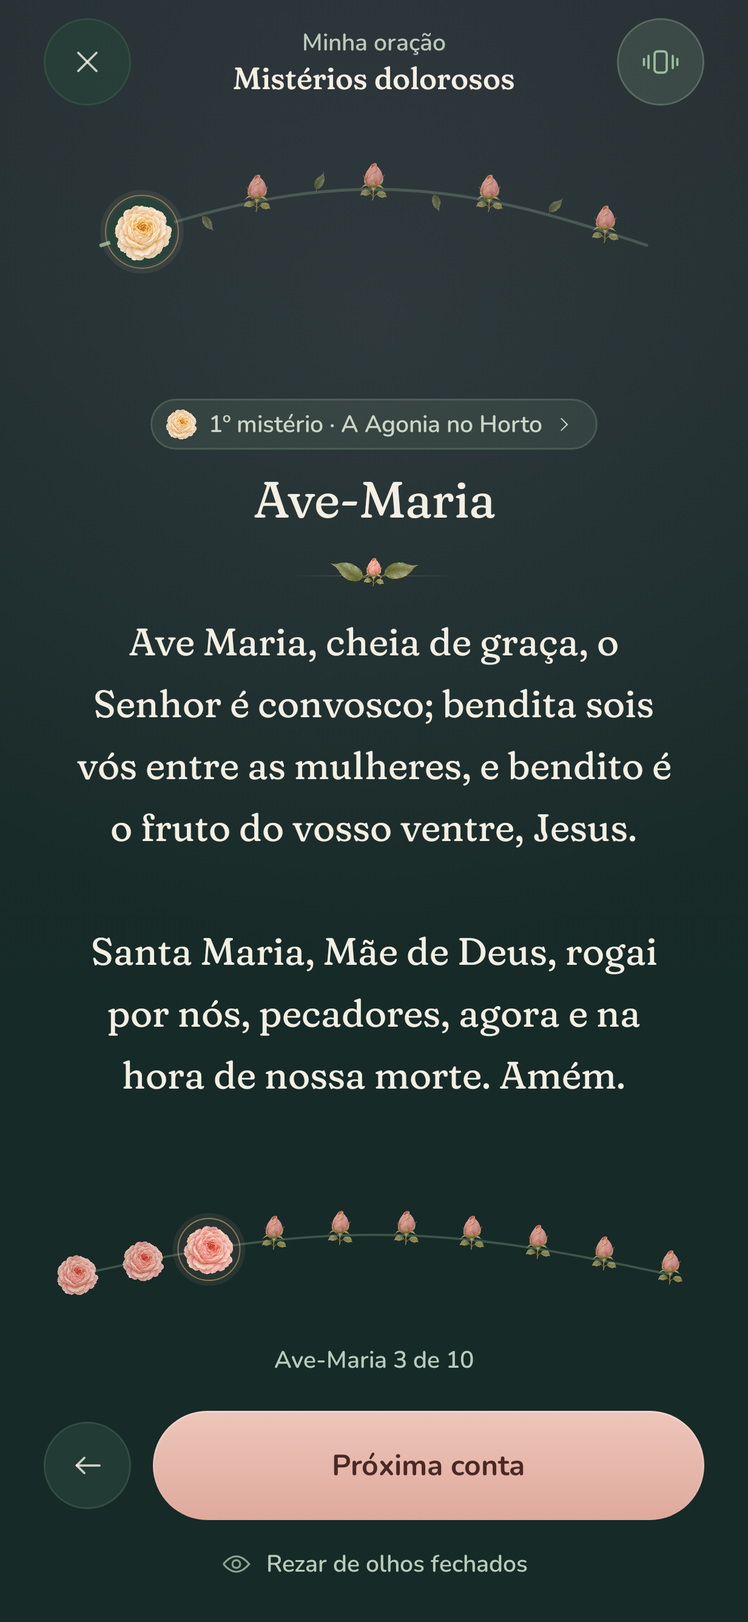
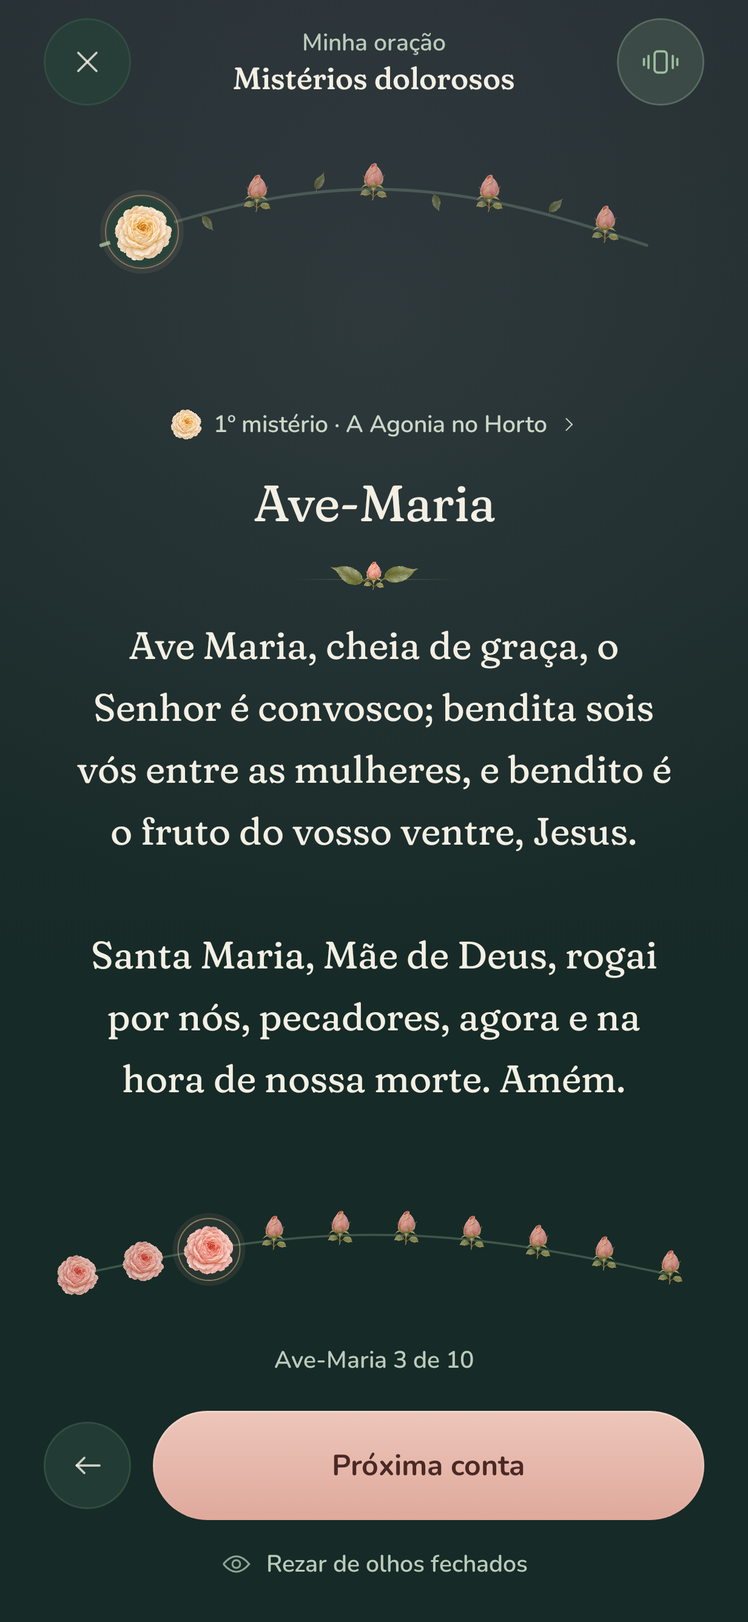
Use plain labels and open text actions instead of decorative pills

diff --git a/app/src/main/java/com/sertumrosarum/feature/prayer/MysteryDimensions.kt b/app/src/main/java/com/sertumrosarum/feature/prayer/MysteryDimensions.kt
@@ -46,7 +46,6 @@ import com.sertumrosarum.ui.canvas.paintBotanical
 import com.sertumrosarum.ui.canvas.DevotionalArtwork
 import com.sertumrosarum.ui.canvas.DevotionalIllustration
 import com.sertumrosarum.ui.components.SacredCard
-import com.sertumrosarum.ui.components.SacredChip
 import com.sertumrosarum.ui.components.SacredIcon
 import com.sertumrosarum.ui.components.SacredText
 import com.sertumrosarum.ui.components.SacredToggleRow
@@ -82,7 +81,7 @@ internal fun MysteryDimensions(
                     when (index) {
                         0 -> {
                             Row(Modifier.fillMaxWidth().padding(bottom = 8.dp), horizontalArrangement = Arrangement.SpaceBetween, verticalAlignment = Alignment.CenterVertically) {
-                                SacredChip(mystery.scripture)
+                                SacredText(mystery.scripture, style = type.micro, color = colors.marian)
                                 DevotionalArtwork(DevotionalIllustration.PRAYER_BOOK, Modifier.size(42.dp))
                             }
                             SacredText("“${contemplation.scriptureQuote}”", Modifier.padding(bottom = 10.dp).testTag("scripture-quote"), type.whisper, colors.marian)
@@ -134,29 +133,24 @@ private fun DimensionLayer(index: Int, name: String, shown: Boolean, foldable: B
 
 /** During a decade, the mystery stays one touch away: this opens its contemplation sheet. */
 @Composable
-internal fun MysteryChip(decade: Int, mystery: Mystery, onOpen: () -> Unit, modifier: Modifier = Modifier) {
+internal fun MysteryLink(decade: Int, mystery: Mystery, onOpen: () -> Unit, modifier: Modifier = Modifier) {
     val colors = SertumTheme.colors
     val ink = lerp(colors.secondary, colors.ink, .3f)
     val art = LocalBotanicalArtwork.current
-    Box(
-        modifier.clip(CircleShape).clickable(role = Role.Button, onClickLabel = "Contemplar este mistério", onClick = onOpen)
-            .testTag("mystery-chip").heightIn(min = 44.dp).padding(horizontal = 6.dp),
-        contentAlignment = Alignment.Center,
+    Row(
+        modifier.clip(RoundedCornerShape(12.dp)).clickable(role = Role.Button, onClickLabel = "Contemplar este mistério", onClick = onOpen)
+            .testTag("mystery-chip").heightIn(min = 48.dp).padding(horizontal = 8.dp, vertical = 6.dp),
+        horizontalArrangement = Arrangement.spacedBy(6.dp), verticalAlignment = Alignment.CenterVertically,
     ) {
-        Row(
-            Modifier.clip(CircleShape).background(colors.marian.copy(alpha = .1f)).border(1.dp, colors.marian.copy(alpha = .2f), CircleShape).padding(start = 8.dp, end = 13.dp, top = 5.dp, bottom = 5.dp),
-            horizontalArrangement = Arrangement.spacedBy(6.dp), verticalAlignment = Alignment.CenterVertically,
-        ) {
-            Canvas(Modifier.size(18.dp)) { paintBotanical(art.ivoryRose, center, size.minDimension) }
-            SacredText("${decade + 1}º mistério · ${mystery.title}", Modifier.weight(1f, fill = false), SertumTheme.typography.micro, ink, maxLines = 1)
-            SacredIcon(SacredIcon.CHEVRON, Modifier.size(11.dp), ink)
-        }
+        Canvas(Modifier.size(18.dp)) { paintBotanical(art.ivoryRose, center, size.minDimension) }
+        SacredText("${decade + 1}º mistério · ${mystery.title}", Modifier.weight(1f, fill = false), SertumTheme.typography.micro, ink, maxLines = 1)
+        SacredIcon(SacredIcon.CHEVRON, Modifier.size(11.dp), ink)
     }
 }
 
 /**
  * One Ave-Maria of the bead-by-bead rosary: the mystery it belongs to, and the line to hold while praying.
- * It takes the place of the heading so the whole prayer still fits beneath it, and opens the same sheet as [MysteryChip].
+ * It takes the place of the heading so the whole prayer still fits beneath it, and opens the same sheet as [MysteryLink].
  */
 @Composable
 internal fun MeditatedBead(decade: Int, mystery: Mystery, line: String, onOpen: () -> Unit, modifier: Modifier = Modifier) {

diff --git a/app/src/main/java/com/sertumrosarum/feature/prayer/PrayerTextReader.kt b/app/src/main/java/com/sertumrosarum/feature/prayer/PrayerTextReader.kt
@@ -3,8 +3,6 @@ package com.sertumrosarum.feature.prayer
 import androidx.compose.animation.core.tween
 import androidx.compose.foundation.Canvas
 import androidx.compose.foundation.ScrollState
-import androidx.compose.foundation.background
-import androidx.compose.foundation.border
 import androidx.compose.foundation.clickable
 import androidx.compose.foundation.gestures.animateScrollBy
 import androidx.compose.foundation.layout.Arrangement
@@ -104,7 +102,7 @@ internal fun PrayerTextReader(
                 Box(Modifier.fillMaxWidth().heightIn(min = 48.dp), contentAlignment = Alignment.Center) {
                     Row(
                         Modifier.testTag("prayer-scroll-cue")
-                            .clip(RoundedCornerShape(50))
+                            .clip(RoundedCornerShape(12.dp))
                             .clickable(
                                 role = Role.Button,
                                 onClickLabel = if (hasMoreBelow) "Ler a próxima parte da oração" else "Voltar ao início da oração",
@@ -129,26 +127,17 @@ internal fun PrayerTextReader(
                         horizontalArrangement = Arrangement.spacedBy(7.dp),
                         verticalAlignment = Alignment.CenterVertically,
                     ) {
-                        Row(
-                            Modifier.clip(RoundedCornerShape(50))
-                                .background(colors.marian.copy(alpha = .1f))
-                                .border(1.dp, colors.marian.copy(alpha = .2f), RoundedCornerShape(50))
-                                .padding(horizontal = 14.dp, vertical = 6.dp),
-                            horizontalArrangement = Arrangement.spacedBy(7.dp),
-                            verticalAlignment = Alignment.CenterVertically,
-                        ) {
-                            SacredText(
-                                if (hasMoreBelow) "Continue lendo" else "Voltar ao início",
-                                Modifier.weight(1f, fill = false),
-                                style = type.micro,
-                                color = cueInk,
-                            )
-                            SacredIcon(
-                                SacredIcon.CHEVRON,
-                                Modifier.size(13.dp).rotate(if (hasMoreBelow) 90f else -90f),
-                                cueInk,
-                            )
-                        }
+                        SacredText(
+                            if (hasMoreBelow) "Continue lendo" else "Voltar ao início",
+                            Modifier.weight(1f, fill = false),
+                            style = type.micro,
+                            color = cueInk,
+                        )
+                        SacredIcon(
+                            SacredIcon.CHEVRON,
+                            Modifier.size(13.dp).rotate(if (hasMoreBelow) 90f else -90f),
+                            cueInk,
+                        )
                     }
                 }
             }

diff --git a/app/src/main/java/com/sertumrosarum/feature/guides/GuidesScreen.kt b/app/src/main/java/com/sertumrosarum/feature/guides/GuidesScreen.kt
@@ -39,7 +39,6 @@ import com.sertumrosarum.ui.canvas.DevotionalIllustration
 import com.sertumrosarum.ui.canvas.CrownGlyph
 import com.sertumrosarum.ui.components.PageWelcome
 import com.sertumrosarum.ui.components.SacredCard
-import com.sertumrosarum.ui.components.SacredChip
 import com.sertumrosarum.ui.components.SacredIcon
 import com.sertumrosarum.ui.components.SacredText
 import com.sertumrosarum.ui.components.SanctuaryPage
@@ -108,11 +107,14 @@ private fun GuideRow(guide: PrayerGuide, onOpen: (PrayerGuide) -> Unit) {
         Column(Modifier.weight(1f)) {
             SacredText(guide.title, style = type.label.copy(fontSize = 16.sp, lineHeight = 22.sp, fontWeight = FontWeight.SemiBold))
             SacredText(guide.summary, Modifier.padding(top = 2.dp), type.body.copy(fontSize = 14.sp, lineHeight = 20.sp), colors.secondary)
-            if (guide.shelf == GuideShelf.CROWN || guide.catechetical || guide.litany) Row(Modifier.padding(top = 8.dp), horizontalArrangement = Arrangement.spacedBy(6.dp)) {
-                // Every rosary has the same five decades, so only the other crowns state their shape.
-                if (guide.shelf == GuideShelf.CROWN) SacredChip(guide.shape.badge)
-                if (guide.catechetical) SacredChip("Iniciante")
-                if (guide.litany) SacredChip("Ladainha")
+            // Metadata stays typographic; the whole row already provides the action surface.
+            val details = buildList {
+                if (guide.shelf == GuideShelf.CROWN) add(guide.shape.badge)
+                if (guide.catechetical) add("Iniciante")
+                if (guide.litany) add("Ladainha")
+            }
+            if (details.isNotEmpty()) {
+                SacredText(details.joinToString(" · "), Modifier.padding(top = 7.dp), type.micro.copy(fontWeight = FontWeight.Medium), colors.marian)
             }
         }
         SacredIcon(SacredIcon.CHEVRON, Modifier.size(13.dp), colors.muted)

diff --git a/app/src/main/java/com/sertumrosarum/feature/prayer/CrownDeliveredScreen.kt b/app/src/main/java/com/sertumrosarum/feature/prayer/CrownDeliveredScreen.kt
@@ -1,7 +1,5 @@
 package com.sertumrosarum.feature.prayer
 
-import androidx.compose.foundation.background
-import androidx.compose.foundation.border
 import androidx.compose.foundation.layout.Arrangement
 import androidx.compose.foundation.layout.Column
 import androidx.compose.foundation.layout.Row
@@ -10,12 +8,10 @@ import androidx.compose.foundation.layout.fillMaxWidth
 import androidx.compose.foundation.layout.padding
 import androidx.compose.foundation.layout.size
 import androidx.compose.foundation.rememberScrollState
-import androidx.compose.foundation.shape.CircleShape
 import androidx.compose.foundation.verticalScroll
 import androidx.compose.runtime.Composable
 import androidx.compose.ui.Alignment
 import androidx.compose.ui.Modifier
-import androidx.compose.ui.draw.clip
 import androidx.compose.ui.platform.testTag
 import androidx.compose.ui.text.font.FontWeight
 import androidx.compose.ui.text.style.TextAlign
@@ -47,7 +43,7 @@ fun CrownDeliveredScreen(state: PrayerUiState, onReturn: () -> Unit) {
             SacredFlourish(Modifier.padding(top = 24.dp, bottom = 20.dp))
             // A quiet record of the time given, with no score to keep.
             Row(
-                Modifier.clip(CircleShape).background(colors.surface).border(1.dp, colors.border, CircleShape).padding(horizontal = 18.dp, vertical = 10.dp),
+                Modifier.padding(vertical = 10.dp),
                 verticalAlignment = Alignment.CenterVertically,
             ) {
                 SacredText("${state.groupCount} ${if (state.script.isRosary) "mistérios" else if (state.groupLabel == "setena") "setenas" else "dezenas"}, ", style = type.body.copy(fontSize = 14.sp), color = colors.secondary)

diff --git a/app/src/main/java/com/sertumrosarum/feature/sanctuary/SanctuaryScreen.kt b/app/src/main/java/com/sertumrosarum/feature/sanctuary/SanctuaryScreen.kt
@@ -90,12 +90,12 @@ fun SanctuaryScreen(state: PrayerUiState, model: PrayerSessionViewModel) {
                 Row(Modifier.fillMaxWidth().heightIn(min = 32.dp), horizontalArrangement = Arrangement.SpaceBetween, verticalAlignment = Alignment.CenterVertically) {
                     SacredText("O que vamos contemplar?", Modifier.weight(1f), type.section)
                     val isToday = state.selectedSet == MysterySet.forDay(state.today.dayOfWeek)
-                    // Reserve the badge's width and height for every set so changing
+                    // Reserve the label's width and height for every set so changing
                     // mysteries never reflows the heading or moves the selector.
                     Row(
                         Modifier.then(if (isToday) Modifier else Modifier.clearAndSetSemantics {})
                             .alpha(if (isToday) 1f else 0f)
-                            .clip(CircleShape).background(colors.marian.copy(alpha = .13f)).padding(horizontal = 12.dp, vertical = 5.dp),
+                            .padding(start = 12.dp, top = 5.dp, bottom = 5.dp),
                         verticalAlignment = Alignment.CenterVertically, horizontalArrangement = Arrangement.spacedBy(6.dp),
                     ) {
                         Box(Modifier.size(6.dp).background(colors.marian, CircleShape))

diff --git a/app/src/main/java/com/sertumrosarum/feature/guides/GuideSheet.kt b/app/src/main/java/com/sertumrosarum/feature/guides/GuideSheet.kt
@@ -41,7 +41,6 @@ import com.sertumrosarum.ui.canvas.FiveMysteriesArc
 import com.sertumrosarum.ui.canvas.LocalBotanicalArtwork
 import com.sertumrosarum.ui.canvas.paintBotanical
 import com.sertumrosarum.ui.canvas.DevotionalArtwork
-import com.sertumrosarum.ui.components.SacredChip
 import com.sertumrosarum.ui.components.SacredPrimaryButton
 import com.sertumrosarum.ui.components.SacredText
 import com.sertumrosarum.ui.components.SacredToggleRow
@@ -59,7 +58,7 @@ internal fun ColumnScope.GuideSheetContent(
     val colors = SertumTheme.colors
     val type = SertumTheme.typography
     DevotionalArtwork(guide.illustration, Modifier.align(Alignment.CenterHorizontally).size(128.dp))
-    SacredChip(guide.kicker, Modifier.align(Alignment.CenterHorizontally))
+    SacredText(guide.kicker, Modifier.fillMaxWidth(), type.micro, colors.marian, TextAlign.Center)
     SacredText(guide.title, Modifier.fillMaxWidth().padding(top = 10.dp).testTag("guide-title").semantics { heading() }, type.heading, align = TextAlign.Center)
     SacredText(guide.about, Modifier.fillMaxWidth().padding(top = 10.dp), type.body, colors.secondary, TextAlign.Center)
 

diff --git a/app/src/test/java/com/sertumrosarum/screenshots/SanctuaryScreenshotTest.kt b/app/src/test/java/com/sertumrosarum/screenshots/SanctuaryScreenshotTest.kt
@@ -1,6 +1,7 @@
 package com.sertumrosarum.screenshots
 
 import androidx.compose.ui.semantics.SemanticsActions
+import androidx.compose.ui.test.assertIsDisplayed
 import androidx.compose.ui.test.performSemanticsAction
 import androidx.compose.ui.test.junit4.createAndroidComposeRule
 import androidx.compose.ui.test.onNodeWithTag
@@ -55,6 +56,14 @@ class SanctuaryScreenshotTest {
         tap("theme-menu")
         tap("theme-$mode")
         tap("start-rosary")
+        tap("next-prayer")
+        compose.onNodeWithTag("prayer-scroll-cue").assertIsDisplayed()
+        shot("prayer-reading-$suffix")
+        if (mode == "VIGIL") {
+            compose.onNodeWithTag("prayer-scroll").performSemanticsAction(SemanticsActions.ScrollBy) { it(0f, 100_000f) }
+            compose.waitForIdle()
+            shot("prayer-reading-end-vigil")
+        }
         tap("decade-0")
         tap("bead-2")
         shot("prayer-$suffix")

diff --git a/app/src/main/java/com/sertumrosarum/feature/prayer/ImmersivePrayerScreen.kt b/app/src/main/java/com/sertumrosarum/feature/prayer/ImmersivePrayerScreen.kt
@@ -104,7 +104,7 @@ fun ImmersivePrayerScreen(state: PrayerUiState, model: PrayerSessionViewModel, o
                     } else {
                         // Within a decade the chapter line becomes the way back into its mystery.
                         if (step.mystery != null && state.contemplation != null && !announcing && !state.eyesClosed) {
-                            MysteryChip(requireNotNull(step.decadeIndex), step.mystery, { contemplating = true })
+                            MysteryLink(requireNotNull(step.decadeIndex), step.mystery, { contemplating = true })
                             Spacer(Modifier.height(if (shortScreen) 0.dp else 2.dp))
                         } else {
                             SacredText(chapter, style = type.micro, color = colors.marian, align = TextAlign.Center)

diff --git a/app/src/main/java/com/sertumrosarum/ui/components/SertumPage.kt b/app/src/main/java/com/sertumrosarum/ui/components/SertumPage.kt
@@ -94,7 +94,7 @@ fun BuddingBed(title: String, lead: String, promiseTitle: String, promises: List
             paintLeaf(art.leaf, foot - Offset(0f, 12.dp.toPx()), foot + Offset(34.dp.toPx(), -30.dp.toPx()), .92f)
             paintBotanical(art.bud, center - Offset(0f, 14.dp.toPx()), 62.dp.toPx())
         }
-        SacredChip("Ainda em botão", Modifier.padding(top = 4.dp))
+        SacredText("Ainda em botão", Modifier.padding(top = 4.dp), type.micro, colors.marian)
         PageWelcome(title, lead, Modifier.padding(top = 14.dp), TextAlign.Center)
         SacredFlourish(Modifier.padding(vertical = 24.dp))
         SacredCard(Modifier.padding(horizontal = 24.dp).fillMaxWidth()) {

diff --git a/app/src/main/java/com/sertumrosarum/ui/components/SacredComponents.kt b/app/src/main/java/com/sertumrosarum/ui/components/SacredComponents.kt
@@ -274,11 +274,3 @@ fun SacredToggleRow(title: String, caption: String, checked: Boolean, onToggle: 
         SacredSwitch(checked)
     }
 }
-
-/** A small label in a soft sage pill, for a state or a count that needs no emphasis. */
-@Composable
-fun SacredChip(text: String, modifier: Modifier = Modifier, tint: Color = SertumTheme.colors.marian) {
-    Box(modifier.clip(CircleShape).background(tint.copy(alpha = .13f)).padding(horizontal = 11.dp, vertical = 4.dp)) {
-        SacredText(text, style = SertumTheme.typography.micro, color = tint, maxLines = 1)
-    }
-}

diff --git a/app/src/test/java/com/sertumrosarum/screenshots/RoteirosScreenshotTest.kt b/app/src/test/java/com/sertumrosarum/screenshots/RoteirosScreenshotTest.kt
@@ -138,6 +138,10 @@ class RoteirosScreenshotTest {
         shot("tesouro")
         tap("tab-GARDEN")
         shot("meu-jardim")
+        tap("tab-HOME")
+        appearance("VIGIL")
+        tap("tab-TREASURY")
+        shot("tesouro-vigil")
     }
 
     @Test fun devotionalPortraitsAndThemedCards() {

diff --git a/docs/design-system.md b/docs/design-system.md
@@ -10,6 +10,7 @@ The experience should feel welcoming, familiar, and unhurried. The garden is par
 - Bundled **Fraunces** is the voice of the garden. Its softness axis is baked fully open into fixed-weight font files, so every serif ends rounded consistently across devices. It sets the wordmark, headings, and every prayer. **Nunito** carries controls and small supporting copy, with separate regular, medium, semibold, and bold resources. [Font sources and regeneration](fonts/README.md) preserve the exact cuts.
 - Type is sentence case, with generous line spacing. Headings are regular weight, never bold.
 - Surfaces are soft, generously rounded, and edged with a hairline in place of a heavy shadow. Shadows are tinted sage or rose, never grey.
+- Pill shapes are discouraged and used sparingly where they clearly communicate selection or the main action. Status, categories, counts, Scripture citations, and other supporting labels use plain typography. Secondary actions use open text with a small directional icon and a generous touch target. Give every enclosed shape a functional reason to exist.
 - Actions are petals: a pale blush fill with a rosewood label. Nothing on screen is a dark slab.
 - A small sprig (two leaves around a closed bud) marks each pause in the text.
 - Night is the same garden at dusk: deep forest, cream, muted rose, moonlight, and honey accents.
@@ -49,7 +50,7 @@ Mystery atmospheres gently wash the top of the page and the light around the gar
 | Controls | Nunito Semibold–Bold | 15–16 / 21 sp |
 | Small labels | Nunito Semibold | 13 / 18 sp |
 
-Cards and primary actions use 30 dp corners; selectors and icon controls are full pills and circles. All are built from Compose UI and Foundation, with custom Canvas icons, indications, and animations. Material and Material3 groups are excluded from every dependency configuration, including preview tooling.
+Cards and primary actions use 30 dp corners. The main prayer action, mystery selector, and active bottom-navigation destination retain rounded fills to communicate action or selection; icon controls remain circular. Supporting text stays unenclosed. All are built from Compose UI and Foundation, with custom Canvas icons, indications, and animations. Material and Material3 groups are excluded from every dependency configuration, including preview tooling.
 
 ## Screens
 
@@ -63,11 +64,11 @@ Once content scrolls beneath a fixed header, its first 32 dp fade to reveal the 
 
 ### Sanctuary
 
-The Marian garden opens the screen, under a small floral wordmark and the appearance control. A centered greeting follows. Four soft mystery controls lead to one card that holds the chosen mysteries: their invitation, then five moments joined by a stem. The section heading always reserves the space for its “Hoje” badge, so selecting another set does not shift the controls or card. The hidden badge is excluded from accessibility. A quiet link beneath it leads to Roteiros. The page dissolves into the primary prayer action, which stays within reach above the shelf. A paused crown offers a gentle continuation card.
+The Marian garden opens the screen, under a small floral wordmark and the appearance control. A centered greeting follows. Four soft mystery controls lead to one card that holds the chosen mysteries: their invitation, then five moments joined by a stem. The section heading always reserves the space for its plain “Hoje” label and small dot, so selecting another set does not shift the controls or card. The hidden label is excluded from accessibility. A quiet link beneath it leads to Roteiros. The page dissolves into the primary prayer action, which stays within reach above the shelf. A paused crown offers a gentle continuation card.
 
 ### Roteiros
 
-Every way of praying sits on one of three shelves. **O santo terço** and **Outras coroas devocionais** are single cards whose rows are separated by a hairline; **Terços temáticos** is a row of small painted cards that runs from edge to edge, each washed in the colour of its intention. An open prayer book welcomes the reader. Devotional rows carry their own classical sacred portraits; themed cards carry the Holy Family, a lily and lamp for consolation, or a dove of peace. Small sage pills carry what distinguishes a guide (*Iniciante*, *Ladainha*, its shape). The traditional rosary retains its small crown glyph. The [paintings, iconography, scales, and prompts](artwork/devotions/README.md) form one family with the home garden.
+Every way of praying sits on one of three shelves. **O santo terço** and **Outras coroas devocionais** are single cards whose rows are separated by a hairline; **Terços temáticos** is a row of small painted cards that runs from edge to edge, each washed in the colour of its intention. An open prayer book welcomes the reader. Devotional rows carry their own classical sacred portraits; themed cards carry the Holy Family, a lily and lamp for consolation, or a dove of peace. Plain sage text identifies what distinguishes a guide (*Iniciante*, *Ladainha*, its shape), and guide sheets introduce their category with a simple caption. The traditional rosary retains its small crown glyph. The [paintings, iconography, scales, and prompts](artwork/devotions/README.md) form one family with the home garden.
 
 Touching a guide raises its sheet: what it is, the crown's shape, and the path of the prayer as buds on a stem ending in a rose. The shape is drawn with the same stem and garland as the prayer screen and answers to touch, so a septet of seven can be felt before it is prayed. The complete rosary also shows the litany's two voices. Each guide has one petal action that stays in view and begins its own prayer sequence. Rosaries also offer the mystery selector and bead-by-bead switch. The stem, garland, and delivered crown use the active script’s actual group and bead counts.
 
@@ -77,17 +78,17 @@ A sheet is a rounded page of the background colour that rises over a dusk-green 
 
 ### Tesouro and Meu Jardim
 
-Until their own phases, these two places remain in bud: a painted prayer book in Tesouro and a single painted bud in slow rings of light in Meu Jardim. Each states its purpose in one line and names what will grow there on a card joined by the same stem as the mysteries. They promise nothing with a date, and Meu Jardim says outright that it will keep no goals or streaks.
+Until their own phases, these two places remain in bud: a painted prayer book in Tesouro and a single painted bud in slow rings of light in Meu Jardim. “Ainda em botão” is a plain caption beneath the illustration. Each states its purpose in one line and names what will grow there on a card joined by the same stem as the mysteries. They promise nothing with a date, and Meu Jardim says outright that it will keep no goals or streaks.
 
 ### Prayer
 
 Five painted buds and roses show mystery progress along a leafed stem that grows as the prayer advances. The current mystery is an ivory bloom in a fine gold setting. Compact layouts pair the botanical marks with mystery numbers. Full prayer text has generous space and scrolls for longer prayers. The ten beads are separate, directly selectable closed buds on a garland; each blends into a layered blush rose with a spring animation and a fine selection ring. Previous and next actions remain visible on short screens.
 
-Overflowing prayers show a persistent sage reading-position rail. Soft alpha fades appear only at edges with hidden text, revealing the actual garden background. A separate 48 dp touch target says **Continue lendo** and advances by most of a viewport, retaining an overlap for reading continuity. At the end it becomes **Voltar ao início**. These cues disappear when the complete text fits. Each new prayer starts at the top; scrolling never advances the rosary. Native accessibility scrolling remains available, and the reading cue exposes its action and whether more text remains.
+Overflowing prayers show a persistent sage reading-position rail. Soft alpha fades appear only at edges with hidden text, revealing the actual garden background. An open text action with a chevron says **Continue lendo** and advances by most of a viewport, retaining an overlap for reading continuity. Its separate 48 dp touch target has no persistent fill or border. At the end it becomes **Voltar ao início**. These cues disappear when the complete text fits. Each new prayer starts at the top; scrolling never advances the rosary. Native accessibility scrolling remains available, and the reading cue exposes its action and whether more text remains.
 
 A mystery is announced in its dimensions. Its card holds three layers joined by a stem (**A cena bíblica**, **O sentido da contemplação**, **O fruto do mistério**) which open one at a time, the scene first. Layer text is set in the prayer serif and aligned left for reading; the fruit is named in rose above its practice. Beneath a hairline, a switch turns on the fourth dimension, the **terço meditado conta a conta**. The switch is a bud that blooms into a rose as it crosses.
 
-During the decade, the chapter line becomes a small sage pill naming the mystery. It opens the contemplation sheet, where all three layers are laid out to read and, when the bead-by-bead rosary is on, the ten lines of the decade are listed with the current bead resting on a petal. With the bead-by-bead rosary on, each Ave-Maria is led by a soft card with a fine honey edge that carries the mystery's name and the line to contemplate; it takes the heading's place, so the whole prayer still fits beneath it.
+During the decade, an open text link names the mystery beside a small ivory rose and chevron. It opens the contemplation sheet, where all three layers are laid out to read and, when the bead-by-bead rosary is on, the ten lines of the decade are listed with the current bead resting on a petal. Scripture references use plain text. With the bead-by-bead rosary on, each Ave-Maria is led by a soft card with a fine honey edge that carries the mystery's name and the line to contemplate; it takes the heading's place, so the whole prayer still fits beneath it.
 
 The catechetical guide adds one honey-tinted note above a prayer, titled **Por que rezamos assim?**. A note appears the first time a prayer comes in a group, never on every bead.
 
@@ -97,7 +98,7 @@ Eyes-closed mode replaces the reading area with a concise prayer heading and cal
 
 ### Crown delivered
 
-A crown of roses woven with leaves surrounds a large central blossom or the chosen devotion's sacred painting. The ring uses the script's actual bead and group counts; blossoms and leaves contract for denser rings, keeping all 72 Franciscan flowers distinct. The screen names the delivered crown, offers a gentle closing message, records the time in prayer in one quiet line, and returns to the sanctuary. There are no streaks, scores, or urgency cues.
+A crown of roses woven with leaves surrounds a large central blossom or the chosen devotion's sacred painting. The ring uses the script's actual bead and group counts; blossoms and leaves contract for denser rings, keeping all 72 Franciscan flowers distinct. The screen names the delivered crown, offers a gentle closing message, records the time in prayer as a plain line of text, and returns to the sanctuary. There are no streaks, scores, or urgency cues.
 
 ## Motion, haptics, and accessibility
 
